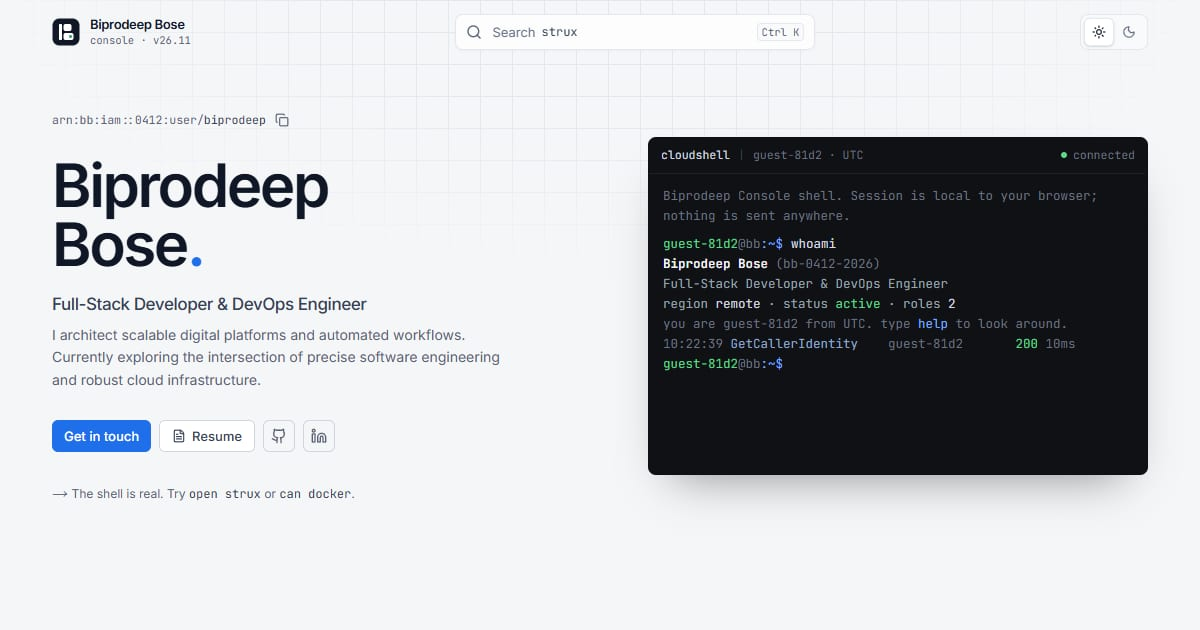
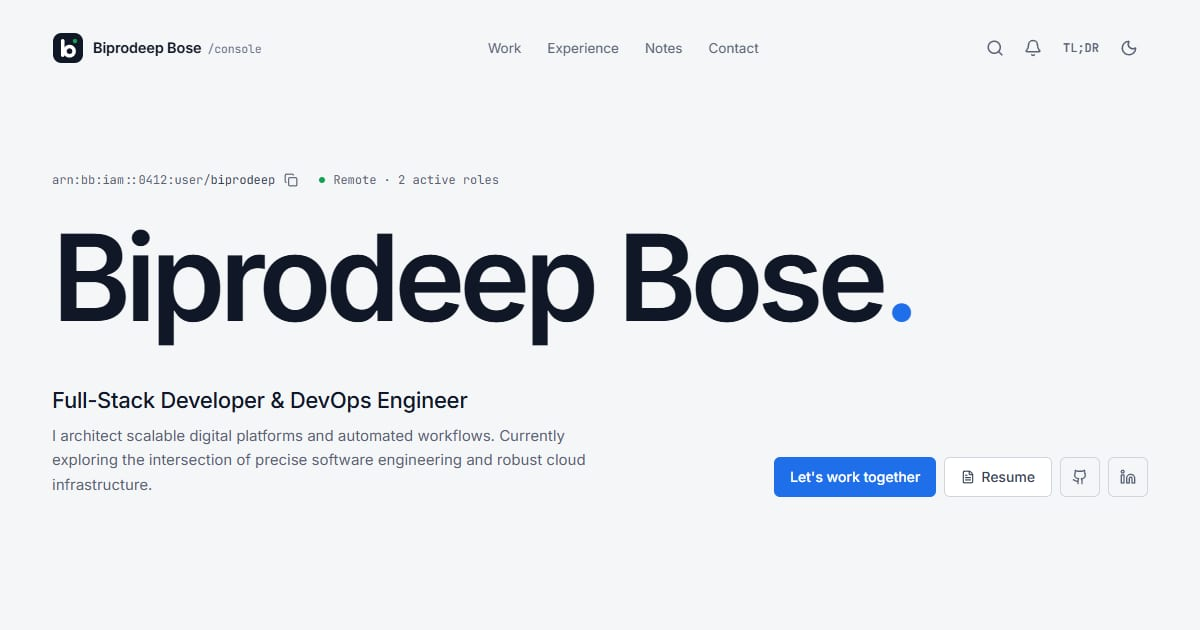
Real experience duration, single source for work metrics, fresh OG image
- Experience stat computed from the first role start (1 yr 7 mo today),
  with building time in the tooltip; no hardcoded "2+" claims remain
- Role metrics stored once as numbers in profile.ts; labels, totals,
  FAQ, TL;DR, terminal and assistant facts all derive from them
- Resume size read from public/Resume.pdf at build time
- og.jpg regenerated from the current hero

diff --git a/src/data/profile.ts b/src/data/profile.ts
@@ -139,11 +139,23 @@ export type Role = {
   description: string;
   skills: string[];
   status: "Active" | "Completed";
-  /** Measured numbers only (git history / merged PRs). */
-  metrics?: string[];
+  // Measured numbers only (git history / merged PRs). Edit these here; every
+  // label, total, FAQ answer and assistant fact is derived from them.
   mergedPRs?: number;
+  commits?: number;
   repos?: number;
+  scope?: string;
 };
+
+/** Display labels for a role's measured numbers, e.g. "297 merged PRs". */
+export function metricsFor(r: Role): string[] {
+  const out: string[] = [];
+  if (r.mergedPRs) out.push(`${r.mergedPRs.toLocaleString("en-US")} merged PRs`);
+  if (r.commits) out.push(`${r.commits.toLocaleString("en-US")}+ commits`);
+  if (r.repos) out.push(`${r.repos} repositor${r.repos === 1 ? "y" : "ies"}`);
+  if (r.scope) out.push(r.scope);
+  return out;
+}
 
 export const EXPERIENCE: Role[] = [
   {
@@ -157,9 +169,10 @@ export const EXPERIENCE: Role[] = [
       "Designed end-to-end testing frameworks and engineered scalable search architectures. Integrated analytics to track user behavior, significantly improving both release reliability and SEO discoverability.",
     skills: ["Next.js", "TypeScript", "Go", "Node.js", "Python", "Testing"],
     status: "Active",
-    metrics: ["297 merged PRs", "1,100+ commits", "9 repositories", "Web, Go, Node.js & Python services"],
     mergedPRs: 297,
+    commits: 1100,
     repos: 9,
+    scope: "Web, Go, Node.js & Python services",
   },
   {
     id: "dep-cotr",
@@ -172,19 +185,33 @@ export const EXPERIENCE: Role[] = [
       "Developed scalable applications with secure authentication and optimized REST APIs. Translated complex business requirements into maintainable, production-ready solutions using modern CI/CD pipelines.",
     skills: ["Next.js", "React Native", "NestJS", "MongoDB", "Socket.IO", "LiveKit"],
     status: "Active",
-    metrics: ["106 merged PRs", "1,300+ commits", "5 repositories", "Web, mobile, CRM & real-time chat"],
     mergedPRs: 106,
+    commits: 1300,
     repos: 5,
+    scope: "Web, mobile, CRM & real-time chat",
   },
 ];
 
 // When building started (first public project), separate from paid roles.
-// Drives the "Independent projects" lane on the timeline and the 2+ yrs stat.
+// Drives the "Independent projects" lane on the timeline and the experience stat.
 export const BUILDING_SINCE = {
   start: "2024-08",
   label: "Aug 2024",
   detail: "Personal and open-source projects on GitHub since the first public one in Aug 2024.",
 };
+
+/** Earliest paid role start as "YYYY-MM". */
+export const FIRST_ROLE_START = [...EXPERIENCE].sort((a, b) => a.start.localeCompare(b.start))[0].start;
+
+/** Time elapsed since a "YYYY-MM" month, computed at render so it never goes stale. */
+export function durationSince(ym: string, now = new Date()) {
+  const [y, m] = ym.split("-").map(Number);
+  const total = Math.max(0, (now.getFullYear() - y) * 12 + (now.getMonth() + 1 - m));
+  const years = Math.floor(total / 12);
+  const months = total % 12;
+  const label = [years ? `${years} yr${years > 1 ? "s" : ""}` : "", months ? `${months} mo` : ""].filter(Boolean).join(" ") || "under a month";
+  return { total, years, months, label };
+}
 
 /** Start of the earliest paid role, e.g. "Apr 2025". */
 export const FIRST_ROLE = [...EXPERIENCE].sort((a, b) => a.start.localeCompare(b.start))[0].period.split(" – ")[0];
@@ -234,7 +261,8 @@ export const ABOUT = {
     "I believe great products balance usability, performance, and clarity. Code should be scalable and readable — built with purpose. Smooth experiences matter, and details shape how software feels.",
 };
 
-export const RESUME = { file: "/Resume.pdf", name: "Resume.pdf", sizeKb: 134 };
+// Size is read from public/Resume.pdf at build time (next.config.ts), so swapping the PDF updates it.
+export const RESUME = { file: "/Resume.pdf", name: "Resume.pdf", sizeKb: Number(process.env.RESUME_KB) || 0 };
 
 export const SECTIONS = [
   { id: "services", label: "Services", api: "ListServices" },

diff --git a/src/data/knowledge.ts b/src/data/knowledge.ts
@@ -2,7 +2,7 @@
 // Used two ways: as the fact sheet in the AI system prompt (server), and by the
 // offline answer engine (browser) when the model is unavailable.
 
-import { ABOUT, BUILDING_SINCE, EXPERIENCE, FIRST_ROLE, PROFILE, PROJECTS, RESUME, SECTIONS, SERVICES, SKILLS } from "./profile";
+import { ABOUT, BUILDING_SINCE, EXPERIENCE, FIRST_ROLE, FIRST_ROLE_START, PROFILE, PROJECTS, RESUME, SECTIONS, SERVICES, SKILLS, durationSince, metricsFor } from "./profile";
 import { evaluate } from "./policy";
 import { FAQ } from "./faq";
 
@@ -30,14 +30,16 @@ export function factSheet() {
   lines.push(`Role: ${PROFILE.role}`);
   lines.push(`Summary: ${PROFILE.summary}`);
   lines.push(`Works: ${PROFILE.location}`);
-  lines.push(`Experience: 2+ years building software (first public project ${BUILDING_SINCE.label}); professionally since ${FIRST_ROLE}.`);
+  lines.push(
+    `Experience: ${durationSince(FIRST_ROLE_START).label} professionally (since ${FIRST_ROLE}); building software for ${durationSince(BUILDING_SINCE.start).label} (first public project ${BUILDING_SINCE.label}).`,
+  );
   lines.push(`Contact: email ${PROFILE.email}; GitHub ${PROFILE.github}; LinkedIn ${PROFILE.linkedin}; Instagram ${PROFILE.instagram}`);
   lines.push(`Resume: ${PROFILE.site}${RESUME.file}`);
   lines.push("");
   lines.push("Current roles:");
   EXPERIENCE.forEach((r) =>
     lines.push(
-      `- ${r.title} at ${r.company} (${r.period}, ${r.location}): ${r.description} Stack: ${r.skills.join(", ")}.${r.metrics ? ` Measured: ${r.metrics.join(", ")}.` : ""}`,
+      `- ${r.title} at ${r.company} (${r.period}, ${r.location}): ${r.description} Stack: ${r.skills.join(", ")}.${metricsFor(r).length ? ` Measured: ${metricsFor(r).join(", ")}.` : ""}`,
     ),
   );
   lines.push("");
@@ -125,7 +127,7 @@ const INTENTS: { keys: string[]; answer: () => LocalAnswer }[] = [
   {
     keys: ["experience", "work", "job", "company", "companies", "employ", "career", "current", "intern", "role", "where does he work"],
     answer: () => ({
-      text: `He currently holds two remote roles:\n${EXPERIENCE.map((r) => `- **${r.title}** at ${r.company} (${r.period})`).join("\n")}\n\nHe's been building since ${BUILDING_SINCE.label}, so 2+ years overall.`,
+      text: `He currently holds two remote roles:\n${EXPERIENCE.map((r) => `- **${r.title}** at ${r.company} (${r.period})`).join("\n")}\n\nThat's ${durationSince(FIRST_ROLE_START).label} professionally; he's been building since ${BUILDING_SINCE.label} (${durationSince(BUILDING_SINCE.start).label}).`,
       actions: [{ kind: "section", label: "See deployments", id: "deployments" }],
     }),
   },
@@ -173,7 +175,9 @@ const INTENTS: { keys: string[]; answer: () => LocalAnswer }[] = [
   },
   {
     keys: ["year", "how long", "senior", "junior", "level"],
-    answer: () => ({ text: `2+ years: he started building in ${BUILDING_SINCE.label} (first public project) and has worked professionally since ${FIRST_ROLE}, currently at ${EXPERIENCE.map((e) => e.company).join(" and ")}.` }),
+    answer: () => ({
+      text: `${durationSince(FIRST_ROLE_START).label} of professional experience (since ${FIRST_ROLE}), currently at ${EXPERIENCE.map((e) => e.company).join(" and ")}. He started building in ${BUILDING_SINCE.label}, ${durationSince(BUILDING_SINCE.start).label} ago.`,
+    }),
   },
   {
     keys: ["educat", "degree", "college", "university", "study", "school"],

diff --git a/src/app/page.tsx b/src/app/page.tsx
@@ -1,5 +1,5 @@
 import { ArrowUpRight, FileText, Github, Instagram, Linkedin, Mail } from "lucide-react";
-import { ABOUT, BUILDING_SINCE, EXPERIENCE, PROFILE, PROJECTS, SERVICES } from "@/data/profile";
+import { ABOUT, BUILDING_SINCE, EXPERIENCE, FIRST_ROLE, FIRST_ROLE_START, PROFILE, PROJECTS, SERVICES, durationSince, metricsFor } from "@/data/profile";
 import { Chips, Section, Status } from "@/components/ui";
 import { CopyButton, CopyField } from "@/components/client";
 import { Frame } from "@/components/Frame";
@@ -30,6 +30,9 @@ const CHANNELS = [
 ];
 
 export default function Home() {
+  // Recomputed on every (daily) regeneration, so the numbers stay true.
+  const PRO = durationSince(FIRST_ROLE_START);
+  const BUILD = durationSince(BUILDING_SINCE.start);
 
   return (
     <Frame>
@@ -78,10 +81,18 @@ export default function Home() {
           <div className="px-6 py-6">
             <div className="label">Experience</div>
             <div className="mt-2 flex items-baseline gap-1">
-              <span className="text-[28px] leading-none font-semibold tracking-tight tabular-nums">2+</span>
-              <span className="text-muted">yrs</span>
+              {PRO.years > 0 && (
+                <>
+                  <span className="text-[28px] leading-none font-semibold tracking-tight tabular-nums">{PRO.years}</span>
+                  <span className="text-muted mr-1.5">yr{PRO.years > 1 ? "s" : ""}</span>
+                </>
+              )}
+              <span className="text-[28px] leading-none font-semibold tracking-tight tabular-nums">{PRO.months}</span>
+              <span className="text-muted">mo</span>
             </div>
-            <div className="mt-1.5 text-[12px] text-muted">Building since {BUILDING_SINCE.label}</div>
+            <div className="mt-1.5 text-[12px] text-muted" title={`Building software for ${BUILD.label} (since ${BUILDING_SINCE.label})`}>
+              Professional, since {FIRST_ROLE}
+            </div>
           </div>
           <div className="px-6 py-6 border-l border-line">
             <div className="label">Merged PRs at work</div>
@@ -188,9 +199,9 @@ export default function Home() {
                       </div>
                       <Status>{r.status}</Status>
                     </div>
-                    {!!r.metrics?.length && (
+                    {metricsFor(r).length > 0 && (
                       <ul className="mt-3 flex flex-wrap gap-x-4 gap-y-1" aria-label="Measured impact">
-                        {r.metrics.map((m) => (
+                        {metricsFor(r).map((m) => (
                           <li key={m} className="mono text-[11.5px] text-fg-2 flex items-center gap-1.5">
                             <span className="size-1 rounded-full bg-accent" aria-hidden />
                             {m}

diff --git a/src/data/faq.ts b/src/data/faq.ts
@@ -2,7 +2,16 @@
 // this site). Deliberately leaves out availability/relocation/salary, which
 // only Biprodeep can answer. `keys` feed the assistant's offline engine.
 
+import { BUILDING_SINCE, EXPERIENCE } from "./profile";
+
 export type Faq = { q: string; a: string; keys: string[] };
+
+const since = (period: string) => period.split(" – ")[0];
+const rolesNow = EXPERIENCE.map(
+  (r) =>
+    `${r.title} at ${r.company} since ${since(r.period)}` +
+    (r.mergedPRs ? ` (${r.mergedPRs} merged PRs across ${r.repos} repositories${r.scope ? `: ${r.scope}` : ""})` : ""),
+).join(" and ");
 
 export const FAQ: Faq[] = [
   {
@@ -12,7 +21,7 @@ export const FAQ: Faq[] = [
   },
   {
     q: "What is he working on right now?",
-    a: "Two remote roles in parallel: Software Development Engineer Intern at SaffronStays since Apr 2025 (297 merged PRs across 9 repositories) and Full-Stack Developer at Coding On The Rocks since Dec 2025 (106 merged PRs across 5 repositories: web, mobile, CRM and real-time chat).",
+    a: `${EXPERIENCE.length === 2 ? "Two" : EXPERIENCE.length} remote roles in parallel: ${rolesNow}.`,
     keys: ["right now", "currently", "working on", "these days"],
   },
   {
@@ -42,7 +51,7 @@ export const FAQ: Faq[] = [
   },
   {
     q: "Where can I see his code?",
-    a: "On GitHub: 40+ public repositories since his first public project in Aug 2024, from early JavaScript experiments to STRUX and MapGeox. Work code for employers is private.",
+    a: `On GitHub, going back to his first public project in ${BUILDING_SINCE.label}: from early JavaScript experiments to STRUX and MapGeox. Work code for employers is private.`,
     keys: ["code", "github", "repo", "source", "open source", "portfolio"],
   },
   {

diff --git a/src/components/ModalBodies.tsx b/src/components/ModalBodies.tsx
@@ -3,7 +3,7 @@
 // Loaded on demand: none of this is needed until a modal opens.
 import Link from "next/link";
 import { ArrowUpRight, Copy, Download, ExternalLink, Linkedin, MessageSquareText } from "lucide-react";
-import { BUILDING_SINCE, EXPERIENCE, FIRST_ROLE, PROFILE, PROJECTS, RESUME, SERVICES, SKILLS, type Project } from "@/data/profile";
+import { BUILDING_SINCE, EXPERIENCE, FIRST_ROLE, PROFILE, PROJECTS, RESUME, SERVICES, SKILLS, type Project, metricsFor } from "@/data/profile";
 import { BrowserFrame, Chips, hostOf } from "./ui";
 import { CopyField, JsonBlock, Tabs, useToast } from "./client";
 import { useConsole } from "./Shell";
@@ -168,7 +168,7 @@ export function Tldr() {
                 <span className="text-muted"> · {r.company}</span>
                 <div className="text-[12px] text-muted">
                   {r.period}
-                  {r.metrics?.length ? ` · ${r.metrics.slice(0, 2).join(" · ")}` : ""}
+                  {metricsFor(r).length ? ` · ${metricsFor(r).slice(0, 2).join(" · ")}` : ""}
                 </div>
               </div>
             ))}

diff --git a/src/components/Timeline.tsx b/src/components/Timeline.tsx
@@ -20,7 +20,7 @@ export function DeploymentTimeline() {
   const pct = (i: number) => ((i - first) / span) * 100;
   const nowFrac = pct(nowIdx + now.getDate() / 31);
   const months = Array.from({ length: span }, (_, k) => first + k);
-  // Paid roles plus the independent-projects lane that explains "2+ yrs".
+  // Paid roles plus the independent-projects lane (building since the first public project).
   const roles = [
     { id: "dep-independent", company: "Independent", title: "Personal & open-source projects", period: `${BUILDING_SINCE.label} – Present`, start: BUILDING_SINCE.start, self: true },
     ...EXPERIENCE.map((r) => ({ ...r, self: false })),

diff --git a/next.config.ts b/next.config.ts
@@ -1,11 +1,14 @@
 import type { NextConfig } from "next";
+import { statSync } from "node:fs";
 
 // Frozen at build time so "deployed" dates don't drift when ISR re-renders pages.
 const BUILD_TIME = new Date().toISOString();
 const BUILD_SHA = (process.env.VERCEL_GIT_COMMIT_SHA ?? "").slice(0, 7);
+// Resume size, read from the file so replacing the PDF keeps the label true.
+const RESUME_KB = String(Math.round(statSync("public/Resume.pdf").size / 1024));
 
 const nextConfig: NextConfig = {
-  env: { BUILD_TIME, BUILD_SHA },
+  env: { BUILD_TIME, BUILD_SHA, RESUME_KB },
   trailingSlash: true,
   reactCompiler: true,
   reactStrictMode: true,
